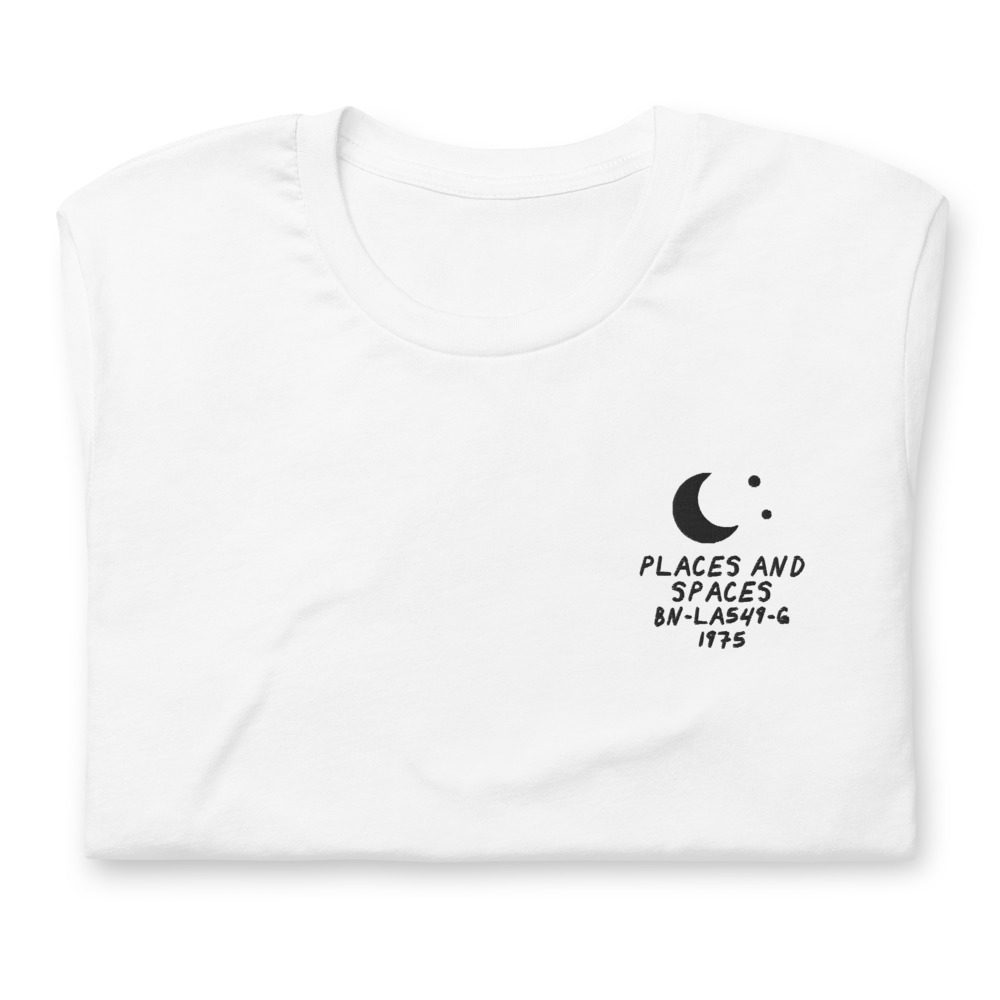
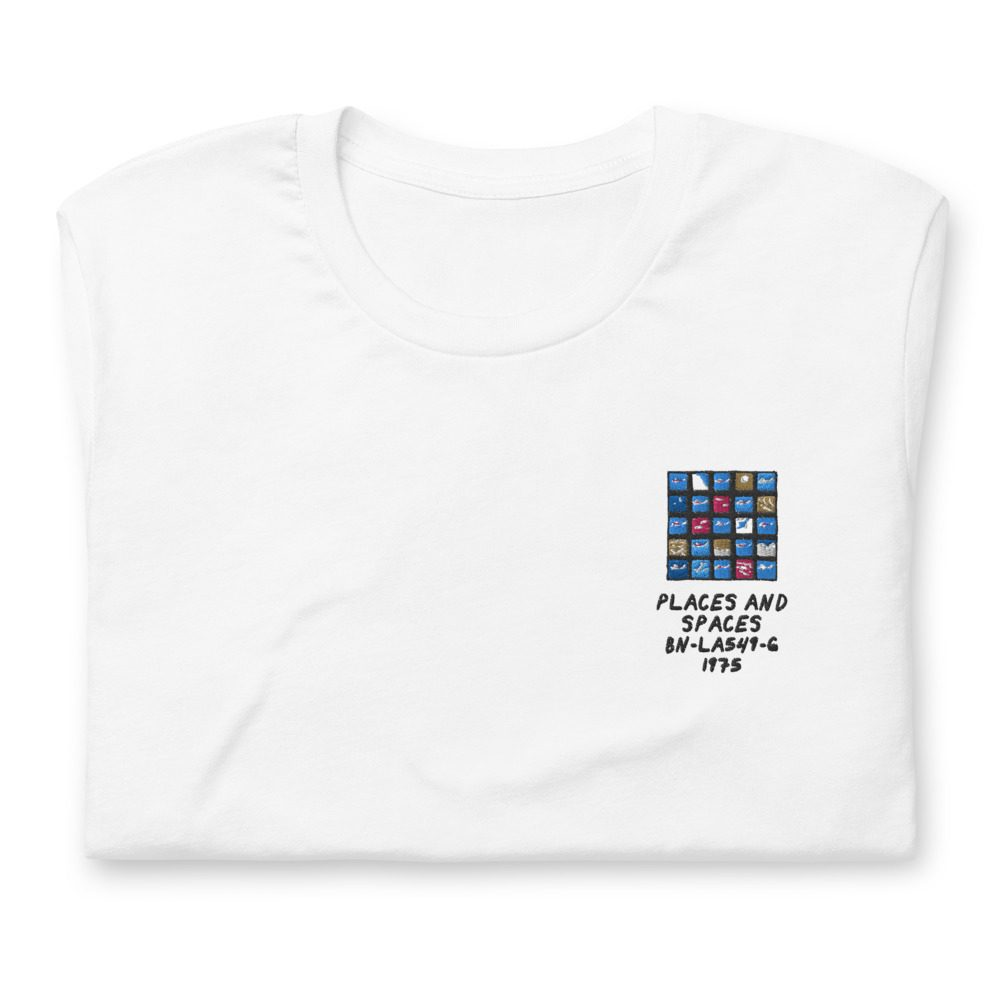
Deploy build from source 273e532

Changed region(s): [[0.62, 0.465, 0.806, 0.682]]

diff --git a/about.html b/about.html
@@ -49,7 +49,7 @@
 <p>I’ve been chasing both ever since: that warm 5 o’clock hour, and records that hold together from side A to side B.</p>
 <h2>Some of what I play</h2>
 <p>Random picks, in no order. Ask me tomorrow and it’d be a different list.</p>
-<p class="picks">L’Impératrice, Greenflow, Syl Johnson, Papa Bear &amp; His Cubs, Cheryl Lynn, Chemise, The Love Unlimited Orchestra, Nel Oliver, Cornelius Brothers &amp; Sister Rose, Bee Gees, Björk, Trevor Dandy, Thee Sacred Souls, Roy Ayers Ubiquity, Cher, The Main Ingredient, Dee Edwards, Dorothy Ashby, Grace Jones, Depeche Mode, Jungle, The Esquires, Brick, Orquesta Harlow, Robin S, Cleo Sol, Human Race, Miki Matsubara.<br>
+<p class="picks">Aretha Franklin, Corona, Faces, Ronnie Foster, Banda Black Rio, Leo’s Sunshipp, Donna Summer, The Five Stairsteps, NEL OLIVER, Human Race, Miki Matsubara, Chappell Roan, Anita Ward, Marvin Gaye, Robert Lester Folsom, Dorothy Ashby, Cerrone, Carole King, Gilberto Gil, Kalima, Herb Alpert, Evelyn “Champagne” King, Letta Mbulu, Bobbi Humphrey, Helene Smith, strongboi, 50 Cent, Curtis Mayfield.<br>
 <span class="m">Shuffled <time datetime="2026-10-20">2026-10-20</time>.</span></p>
 <p>A few labels I dig through: Athens of the North, Numero Group, Salsoul, Awesome Tapes from Africa, Jazz Dispensary.</p>
 <h2>The shelf</h2>

diff --git a/shop/g-38.html b/shop/g-38.html
@@ -68,7 +68,7 @@
 <h1>Donald Byrd – Places And Spaces</h1>
 <p class="m">LP · Blue Note BN-LA549-G · 1975<br>
 Ungraded, checked before it ships</p>
-<p class="m">Comes with its own shirt: a white tee embroidered on the chest with its title, catalog number and year in my handwriting. Pick a size at checkout. It’s made for you and ships on its own.</p>
+<p class="m">Comes with its own shirt: a white tee embroidered on the chest with my drawing of the cover over its title, catalog number and year. Pick a size at checkout. It’s made for you and ships on its own.</p>
 <p><img class="shirt-pic" src="img/g-38-shirt-folded.jpg" width="1000" height="1000" loading="lazy" alt="Its shirt, folded: a white tee with the record embroidered on the chest"></p>
 <p><img class="shirt-pic" src="img/g-38-shirt-wrinkled.jpg" width="1000" height="1000" loading="lazy" alt="Its shirt, wrinkled: a white tee with the record embroidered on the chest"></p>
 <p><a href="https://buy.stripe.com/4gM8wR6ZgaLX4fc1Y69R61P">Buy</a> <span class="m">$121</span></p>
